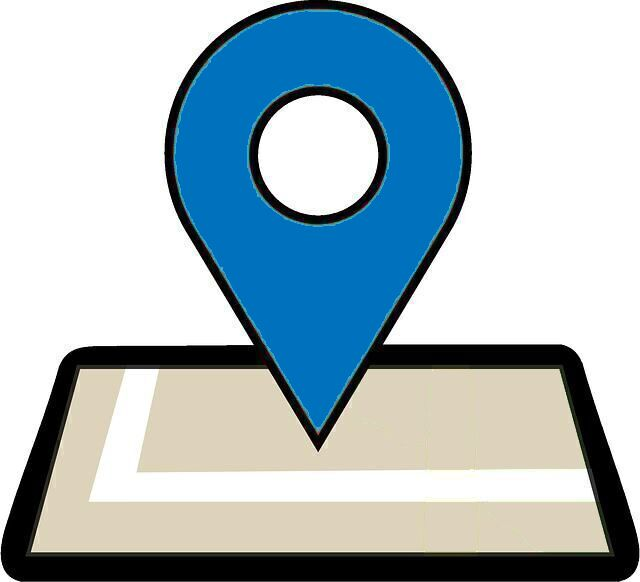
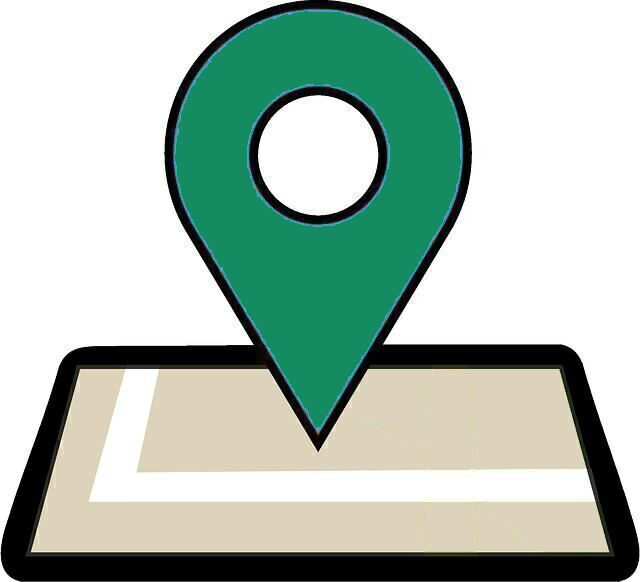
help page completed

Changed region(s): [[0.25, 0.0, 0.7188, 0.7423]]

diff --git a/lib/views/help/help_screen.dart b/lib/views/help/help_screen.dart
@@ -1,5 +1,6 @@
 import 'package:access_point/utils/data/string_utils.dart';
 import 'package:flutter/material.dart';
+// ignore: import_of_legacy_library_into_null_safe
 import 'package:intro_slider/intro_slider.dart';
 
 class HelpScreen extends StatefulWidget {
@@ -23,7 +24,7 @@ class _HelpScreenState extends State<HelpScreen> {
         slides: slides,
       isShowSkipBtn: false,
       colorDot: Color(0xffdfdfdf),
-      colorActiveDot: Color(0xff0071bc),
+      colorActiveDot: Color(0xff1bb581),
     );
   }
 
